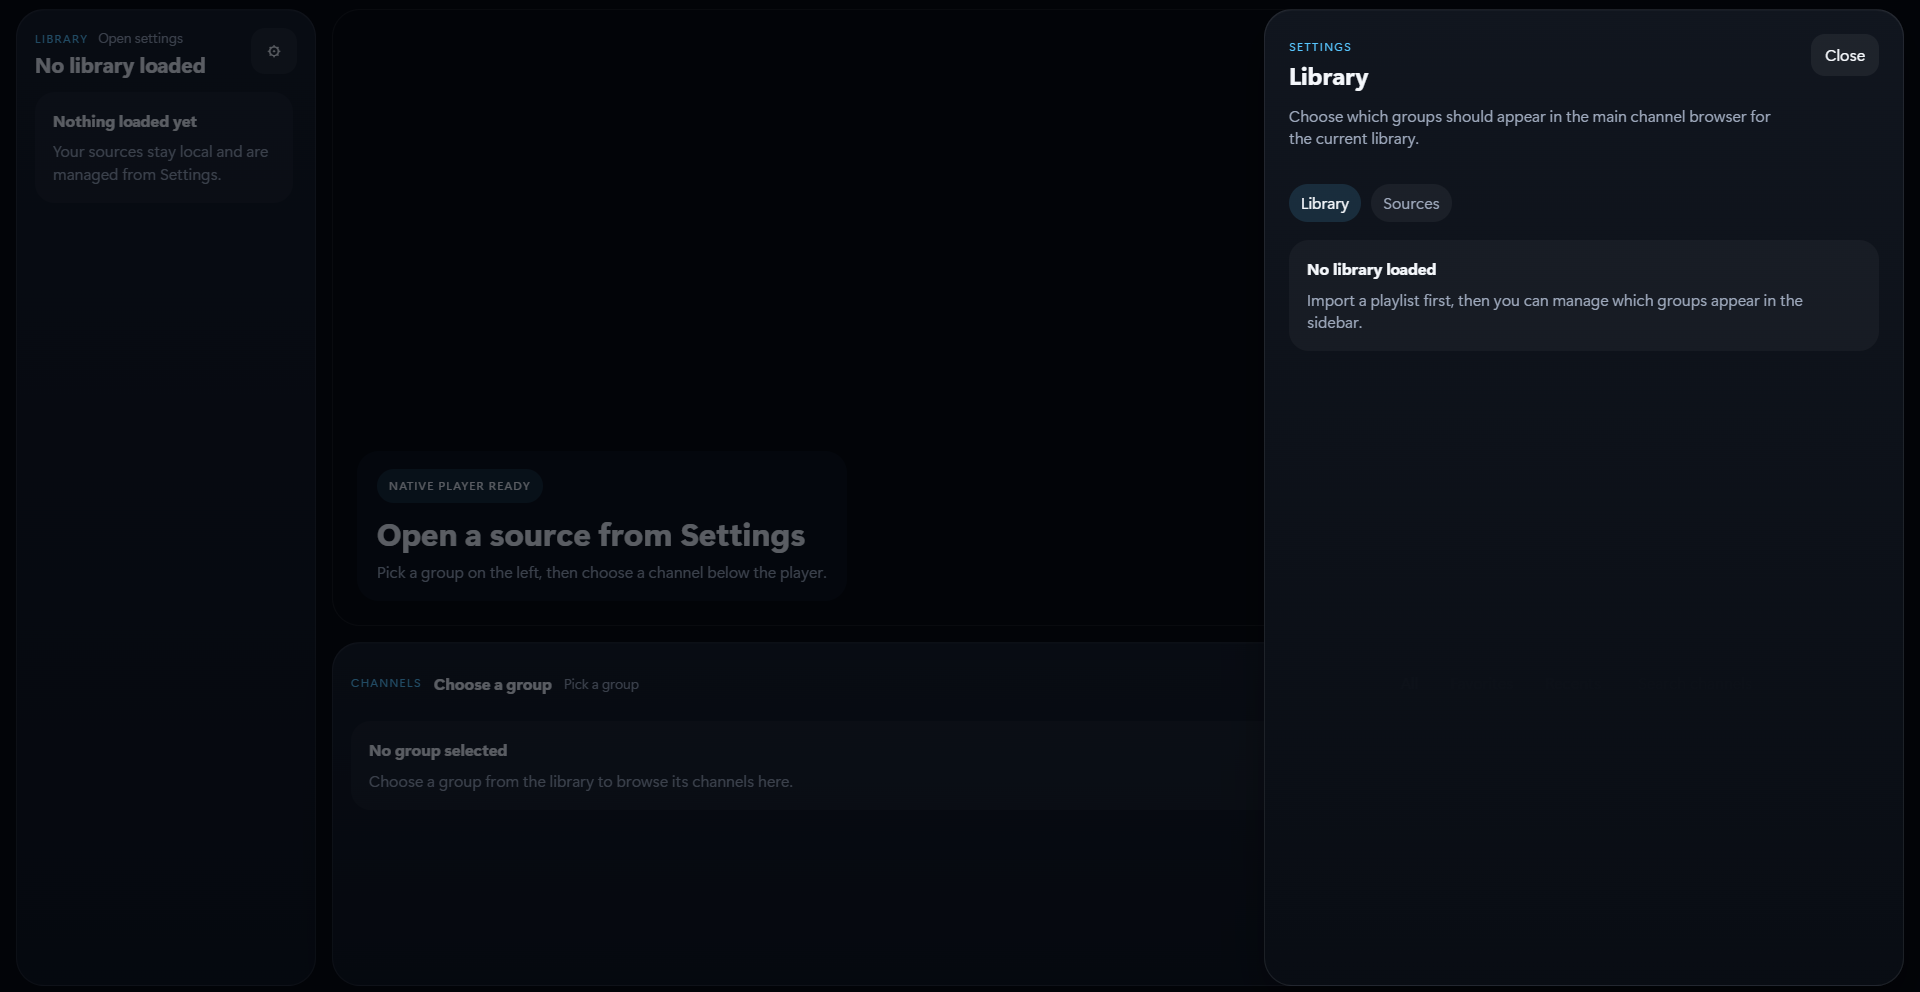
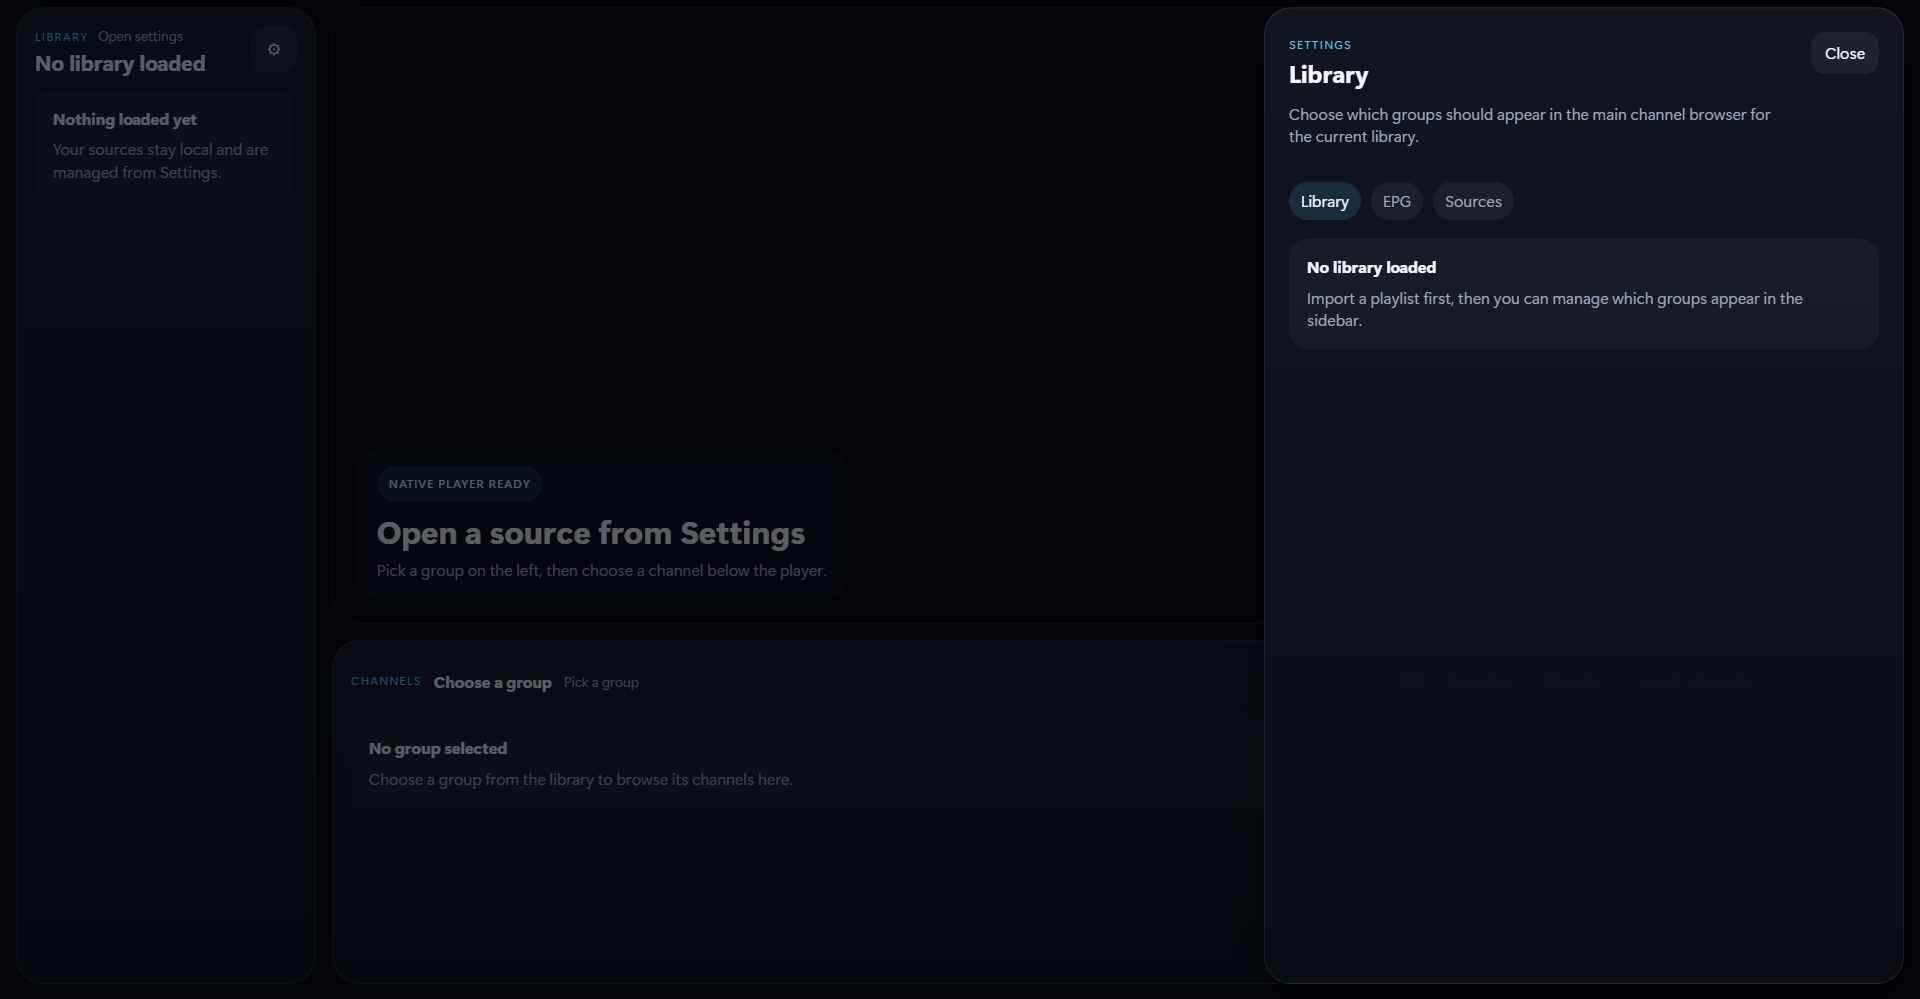
Update README screenshots for EPG settings

diff --git a/README.md b/README.md
@@ -42,17 +42,13 @@ Onyx keeps the first-run experience simple: open Settings, add a source, and sta
 
 ![Onyx home screen](docs/screenshots/home.png)
 
-### Library controls
+### Settings tabs
 
-Hide noisy groups, search large playlists faster, and keep the sidebar focused on the groups you actually want to browse.
+The Settings drawer keeps Library, EPG, and Sources side by side so you can manage browsing, guide data, and saved logins from one place.
 
-![Onyx library settings](docs/screenshots/library-settings.png)
-
-### Saved sources
-
-Add M3U files, remote M3U URLs, or Xtream accounts once and reopen them later without retyping everything every time you launch the app.
-
-![Onyx saved sources](docs/screenshots/saved-sources.png)
+| Library | EPG | Sources |
+| --- | --- | --- |
+| ![Onyx library settings](docs/screenshots/library-settings.png) | ![Onyx EPG settings](docs/screenshots/epg-settings.png) | ![Onyx saved sources](docs/screenshots/saved-sources.png) |
 
 ## Privacy
 
